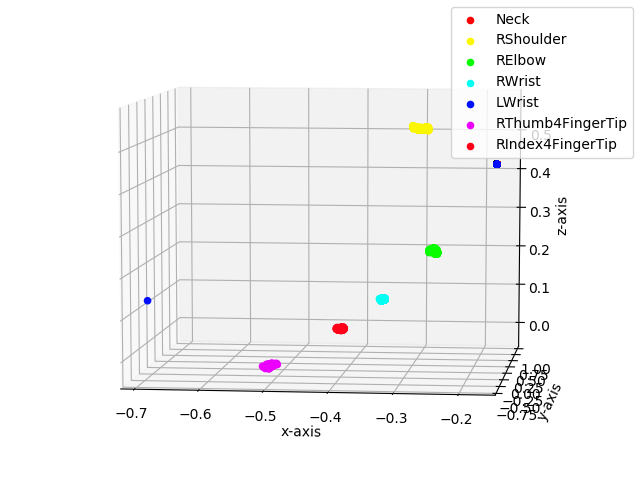
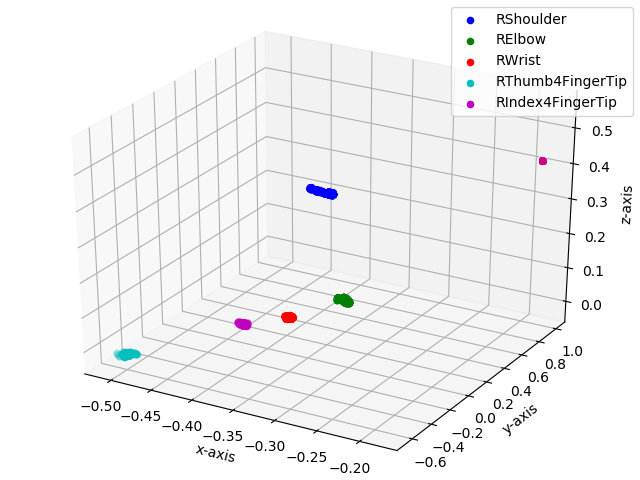
small updates at readme and plot_keypoints cmap

diff --git a/plot/plot_keypoints.py b/plot/plot_keypoints.py
@@ -8,6 +8,7 @@ import re
 import string
 from mpl_toolkits.mplot3d import Axes3D
 import numpy as np
+from itertools import cycle
 
 filename = sys.argv[1]
 
@@ -26,14 +27,12 @@ def getKeypointNames(columns):
 			listOfNames.append(df[col].loc[0])
 	return listOfNames
 
-def get_cmap(n, name='hsv'):
-    '''Returns a function that maps each index in 0, 1, ..., n-1 to a distinct 
-    RGB color; the keyword argument name must be a standard mpl colormap name.'''
-    return plt.cm.get_cmap(name, n)
+def get_cmap():
+    return cycle('bgrcmk')
 
 listOfNames = getKeypointNames(df.columns)
 numOfKeyPoints = len(getKeyPoints(df.columns))
-cmap = get_cmap(numOfKeyPoints)
+cmap = get_cmap()
 
 listOfKeyPoints_x = ["/topic_transform/keypoints/" + str(i) + "/points/point/x" for i in range(numOfKeyPoints)]
 listOfKeyPoints_y = ["/topic_transform/keypoints/" + str(i) + "/points/point/y" for i in range(numOfKeyPoints)]
@@ -67,7 +66,7 @@ fig = plt.figure()
 ax = Axes3D(fig)
 
 for i, (list_x, list_y, list_z) in enumerate(zip(new_listOfKeyPoints_x, new_listOfKeyPoints_y, new_listOfKeyPoints_z)):
-	ax.scatter(new_df[list_x], new_df[list_y], new_df[list_z], color=cmap(i), label=new_listOfNames[i]) 
+	ax.scatter(new_df[list_x], new_df[list_y], new_df[list_z], color=cmap.next(), label=new_listOfNames[i]) 
 
 ax.set_xlabel('x-axis')
 ax.set_ylabel('y-axis')

diff --git a/plot/readme.md b/plot/readme.md
@@ -37,6 +37,6 @@ When the keypoints.bag is ready we convert it into a csv file using the [rosbag_
 
 Finally we run the `plot_keypoints.py` file with the name of the csv file as argument to obtain the plot of the 3d points.
 
-        python src/plot_keypoints.py ~/keypoints_tf.csv 
+        python plot/plot_keypoints.py ~/keypoints_tf.csv 
 
 ![Plot](keypoints_base_link.png)
